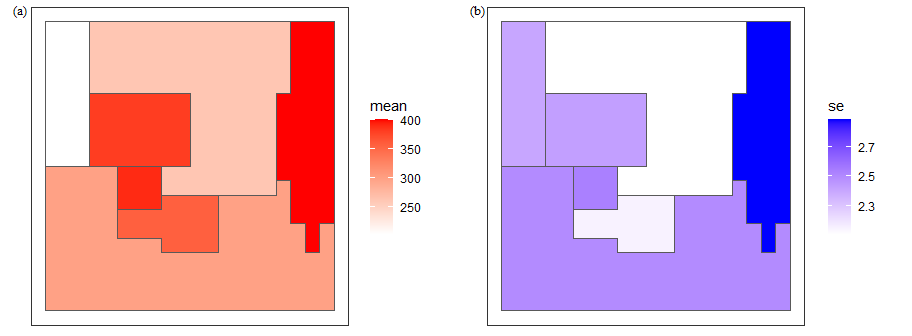
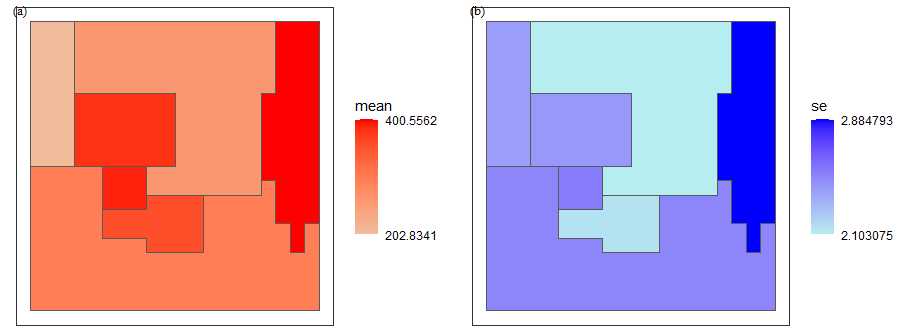
update sandwich demo palette

diff --git a/README.md b/README.md
@@ -45,7 +45,7 @@ tictoc::tic()
 g1 = gos(Zn ~ Slope + Water + NDVI  + SOC + pH + Road + Mine,
          data = zn, newdata = grid, kappa = 0.08,cores = 6)
 tictoc::toc()
-## 10.43 sec elapsed
+## 10.83 sec elapsed
 ```
 
 ``` r
@@ -190,7 +190,8 @@ f1 = ggplot(data = sim_est, aes(fill = sandwichest_mean),
             color = "darkgray") +
   geom_sf() + 
   labs(fill='mean') +
-  scale_fill_gradient(low = "white", high = "red") +
+  scale_fill_gradient(low = "#f0bc9c", high = "red",
+                      breaks = range(sim_est$sandwichest_mean)) +
   theme_bw() +
   theme(
     axis.text = element_blank(),
@@ -205,7 +206,8 @@ f2 = ggplot(data = sim_est, aes(fill = sandwichest_standarderror),
             color = "darkgray") +
   geom_sf() + 
   labs(fill='se') +
-  scale_fill_gradient(low = "white", high = "blue") +
+  scale_fill_gradient(low = "#b6edf0", high = "blue",
+                      breaks = range(sim_est$sandwichest_standarderror)) +
   theme_bw() +
   theme(
     axis.text = element_blank(),
